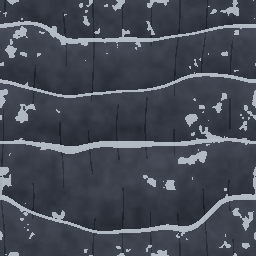
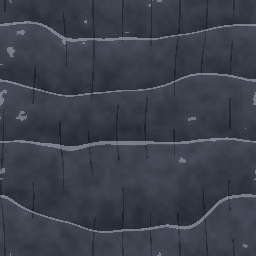
Soften the summit frost, name the waiting climb, and update the docs.
The waiting-climb banner and the title screen's continue button named the
Barranco Wall whatever climb was paused; they now use the paused climb's
own title. The docs describe the camp gates, the three climbs, and the
new art, and the testing checklist walks through all three.

Claude-Session: https://claude.ai/code/session_012oiSSfW9xutsnQ4PA8cAQG

diff --git a/src/app/climb.tsx b/src/app/climb.tsx
@@ -16,6 +16,7 @@ import type { PartyId } from '@/components/world/scene';
 import { checkpointName, currentKilimanjaroEvent } from '@/expeditions/kilimanjaro';
 import { kilimanjaroHybrid } from '@/expeditions/kilimanjaro/challenges';
 import { membersOf, routineActions, routineEffect, tendEffect, type RoutineId } from '@/expeditions/kilimanjaro/party';
+import { SCENES } from '@/features/climbing/scenes';
 import { challengeFor } from '@/game/hybrid/coordinator';
 import { gameStore, useGameSession } from '@/game/session';
 import type { Effect, ExpeditionState, StatKey } from '@/game/types';
@@ -175,7 +176,7 @@ export default function ClimbScreen() {
         {pending ? (
           <View style={[styles.pending, { paddingBottom: insets.bottom + 14 }]}>
             <Text style={styles.pendingKicker}>Playable climb · in progress</Text>
-            <Text style={styles.pendingTitle}>The Barranco Wall is waiting</Text>
+            <Text style={styles.pendingTitle}>{SCENES[pending.challengeId].copy.title} is waiting</Text>
             <Text style={styles.pendingBody}>
               You chose to climb it. Nothing has been spent yet: the expedition moves on when the climb ends, once.
             </Text>
@@ -191,7 +192,7 @@ export default function ClimbScreen() {
               onPress={() => gameStore.abandon()}
               style={({ pressed }) => [styles.pendingBack, pressed && styles.pendingPressed]}
             >
-              <Text style={styles.pendingBackText}>Back off and stay at Barranco</Text>
+              <Text style={styles.pendingBackText}>{SCENES[pending.challengeId].copy.backOff}</Text>
             </Pressable>
           </View>
         ) : member ? (

diff --git a/src/app/index.tsx b/src/app/index.tsx
@@ -16,6 +16,7 @@ import { useSafeAreaInsets } from 'react-native-safe-area-context';
 import { ExpeditionScene } from '@/components/world/ExpeditionScene';
 import { Screen } from '@/components/ui/Screen';
 import { KILI_DISCLAIMER, KILI_PROGRESS, checkpointName } from '@/expeditions/kilimanjaro';
+import { SCENES } from '@/features/climbing/scenes';
 import { gameStore, useGameSession } from '@/game/session';
 import { body, font, line, muted, paper, spruce, spruceInk } from '@/theme';
 import { formatElapsed, formatSeed, parseSeed } from '@/utils/number';
@@ -88,7 +89,7 @@ export default function TitleScreen() {
               style={({ pressed }) => [styles.go, styles.resume, pressed && styles.pressed]}
             >
               <Text style={styles.goText}>
-                {saved.pending ? 'Return to the Barranco Wall' : 'Continue the expedition'}
+                {saved.pending ? `Return to ${SCENES[saved.pending.challengeId].copy.title}` : 'Continue the expedition'}
               </Text>
               <Text style={styles.resumeDetail}>
                 {checkpointName(saved.state.checkpoint)} · {formatElapsed(saved.state.elapsedHours)} · {formatSeed(saved.state.seed)}

diff --git a/tools/art/scenery.py b/tools/art/scenery.py
@@ -160,8 +160,8 @@ def cliff(size=256, tone="barranco") -> Image.Image:
     rgb = mix(hex_rgb(dark), hex_rgb(light), np.clip(v, 0, 1))
     if frost:
         # Rime on the tops of each flow and scattered in the grain.
-        rime = (flow < 0.06) | ((grain > 0.66) & (blotch > 0.5))
-        rgb = np.where(rime[..., None], mix(rgb, hex_rgb(frost), 0.7), rgb)
+        rime = (flow < 0.035) | ((grain > 0.74) & (blotch > 0.62))
+        rgb = np.where(rime[..., None], mix(rgb, hex_rgb(frost), 0.32), rgb)
     return Image.fromarray(np.dstack([rgb, np.full((size, size), 255)]).astype(np.uint8), "RGBA")
 
 

diff --git a/docs/hybrid-architecture.md b/docs/hybrid-architecture.md
@@ -57,8 +57,7 @@ Three small engine changes support this:
 - A new move, `wait`, keeps the party where it is **without** the camp-rest
   benefit that `hold` gives above 3000 m. Failed and abandoned challenges use
   it, so walking away from a climb can never be a disguised rest day.
-- `Choice.id` is an optional stable id. Challenges are registered by card id and
-  choice id, so editing a choice's wording cannot break or redirect a challenge.
+- Challenges guard **camps**, not cards. See *Camp gates* below.
 
 ## Playable choice flow
 
@@ -79,10 +78,8 @@ router.back() to climb.tsx (field note shows the change)
 
 ### Contracts (`src/game/hybrid/types.ts`)
 
-- `ChallengeDefinition`: which card (`eventId`) and which choice
-  (`choiceId`, the choice's stable id, so neither reordering nor rewording
-  choices can launch the wrong thing) open the challenge, and a `modifier(outcome, baseEffect, state)`
-  function returning an `OutcomeModifier`.
+- `ChallengeDefinition`: the camp it guards (`gate`) and a
+  `modifier(outcome, baseEffect, state)` function returning an `OutcomeModifier`.
 - `PendingChallenge`: `attemptId`, `eventId`, `choiceIndex`, `choiceLabel`,
   `historyLength`, and a deterministic `seed` for the simulation.
 - `ChallengeOutcome`: `result` (`complete | retreat | fail`), `staminaLeft`,
@@ -91,6 +88,29 @@ router.back() to climb.tsx (field note shows the change)
   `move: 'wait'` (a challenge can take height away, never add it, and never
   turns into a rest),
   `keepBaseScores`, and its own score notes.
+
+### Camp gates
+
+Kilimanjaro has three played climbs, each guarding a camp:
+
+| Camp | Climb | Level |
+| --- | --- | --- |
+| Shira 2 (`camp1`) | the Lava Tower | `levels/lavaTower.ts` |
+| Barranco (`camp2`) | the Barranco Wall | `levels/barranco.ts` |
+| Barafu (`camp4`) | the summit night | `levels/summitNight.ts` |
+
+`challengeFor(game, state, card, index)` launches the camp's climb for any
+choice whose effect would move the party up (`up` or `summit`) out of a gated
+camp, on any card: the named event cards and the generated route card alike.
+Holding, camp beats, and turning around are never gated, and nothing is gated
+once the party is retreating. So the summit can only be reached by playing all
+three climbs, and a backed-off climb is tried again through the ordinary
+"move on" card.
+
+All three share one outcome policy (`climb()` in
+`src/expeditions/kilimanjaro/challenges.ts`): a retreat or failure `wait`s at
+the camp, refunds half the card's energy, takes back any acclimatization and
+team gain the height would have given, and costs the rest of the day.
 
 ### Invariants
 
@@ -103,6 +123,9 @@ router.back() to climb.tsx (field note shows the change)
 | A challenge cannot add height or large rewards | `boundModifier`: stats −12…+6, hours 0…12, scores −8…+8, notes must carry a mark | `the modifier cannot exceed its limits` |
 | Score notes cannot be earned twice | engine `marks`, and every challenge note has a mark | engine behaviour, unchanged |
 | Backing off is never better than the equivalent rest choice | Barranco modifier tuning | `backing off is never better than resting…` (5 seeds) |
+| Turning back from any climb leaves the party no better off and costs at least 12 h | shared `climb()` policy | `turning back from any climb never leaves the party better off…` |
+| Uhuru is only reached by playing all three climbs | camp gates | `Uhuru is only reached by playing all three climbs` (3 seeds) |
+| A backed-off climb comes back through the ordinary route card | camp gates | `after backing off, the plain way on launches the same climb again` |
 | Camp beats are blocked while a challenge is pending | `coordinator.play` | `camp beats are blocked…` |
 
 The attempt id is `expeditionId:seed:eventId:historyLength`. It is stable for
@@ -214,12 +237,12 @@ npx expo start --dev-client
 
 ## Adding a challenge
 
-1. Author a level in `src/features/climbing/levels/` (tile map + backdrop).
-2. Give the launching choice an `id` in the event data, and add a
-   `ChallengeDefinition` in the expedition's `challenges.ts` naming the card id
-   and that choice id, with a modifier that respects the limits above.
-3. Add it to the expedition's `challenges` list. The coordinator, save, and
-   expedition screen pick it up. `challenge.tsx` currently mounts the Barranco
-   level directly; a second challenge needs a level lookup by `challengeId`.
-4. Write the balance test: the played outcome must not beat the equivalent
-   unplayed choice on retreat or failure.
+1. Author a level in `src/features/climbing/levels/` (tile map + backdrop) and a
+   scripted playthrough test that finishes it.
+2. Add a `ClimbScene` to `src/features/climbing/scenes.ts`: level, cold
+   factor, theme (scenery, tint, night), camp, teammate, and wording.
+3. Add a `climb({ ... gate })` to the expedition's `challenges.ts` and put it in
+   the `challenges` list. The coordinator, save, expedition screen, and
+   challenge screen pick it up.
+4. The shared turn-back test covers the new climb automatically once a careful
+   run reaches its camp.

diff --git a/docs/asset-manifest.md b/docs/asset-manifest.md
@@ -14,11 +14,13 @@ re-run the script to change it. **Placeholder**: stand-in art, to be replaced.
 
 | Asset | Scene | Source | Size | Frames / timing | License | Status |
 | --- | --- | --- | --- | --- | --- | --- |
-| `assets/hd2d/characters/{you,marco,lena,jun}.png` | Barranco Wall | Generated by `tools/art/characters.py` (this repo) | 192 × 128, 24 × 32 frames, 8 columns | 27 frames; clips in `sprites.ts` | Project-owned | **Generated**, used. Shaded side-view sprites with a soft outline |
-| `assets/hd2d/terrain/barranco-tiles.png` | Barranco Wall | Generated by `tools/art/tiles.py` | 128 × 48, 16 px tiles | 23 tiles: basalt, climbable face, scree, lips, edges, shade, cairn, rest stone, marker post | Project-owned | **Generated**, used. Drawn with one Skia `Atlas` call |
+| `assets/hd2d/characters/{you,marco,lena,jun}.png` | Barranco Wall | Generated by `tools/art/characters.py` (this repo) | 256 × 160, 32 × 40 frames, 8 columns | 27 frames; clips in `sprites.ts` | Project-owned | **Generated**, used. HD-2D proportions, rim light, headlamps, soft outline |
+| `assets/hd2d/terrain/barranco-tiles.png` | Barranco Wall | Generated by `tools/art/tiles.py` | 128 × 64, 16 px tiles | 25 tiles (incl. two snow lips): basalt, climbable face, scree, lips, edges, shade, cairn, rest stone, marker post | Project-owned | **Generated**, used. Drawn with one Skia `Atlas` call |
 | `assets/hd2d/scenery/barranco-kibo.png` | Barranco Wall, layer 2 | Generated by `tools/art/scenery.py` | 1400 × 560 | – | Project-owned | **Generated**, used. Kibo's dome and southern ice cliffs, hazy |
 | `assets/hd2d/scenery/barranco-valley.png` | Barranco Wall, layer 4 | Same script | 1400 × 520 | – | Project-owned | **Generated**, used. Valley floor with giant groundsels at three depths |
 | `assets/hd2d/scenery/barranco-cliff.png` | Barranco Wall, layer 5 | Same script | 256 × 256, tiles seamlessly | – | Project-owned | **Generated**, used. Layered lava flows with columnar joints |
+| `assets/hd2d/scenery/plateau.png`, `lava-cliff.png`, `lava-foreground.png` | Lava Tower | `tools/art/scenery.py` | 1400 × 520 / 256 × 256 / 1400 × 420 | – | Project-owned | **Generated**, used. Shira heath, red lava flows, rocks |
+| `assets/hd2d/scenery/summit-sea.png`, `summit-cliff.png`, `summit-foreground.png` | Summit night | `tools/art/scenery.py` | 1400 × 560 / 256 × 256 / 1400 × 420 | – | Project-owned | **Generated**, used. Mawenzi over a cloud sea, frosted rock, icy rocks |
 | `assets/hd2d/scenery/barranco-foreground.png` | Barranco Wall, layer 8 | Same script | 1400 × 420 | – | Project-owned | **Generated**, used. Dark groundsel and rock silhouettes, drawn blurred |
 | `assets/world/pixel-tent.png` | Barranco Wall, camp | Unrecorded | 96 × 60 | – | Unrecorded | Used (reused) |
 | Mist, particles, gust streaks, vignette | Barranco Wall | Procedural | – | – | Project-owned | Used |
@@ -45,7 +47,7 @@ The generated art covers every layer. What would lift it further:
 
 | Asset | Spec | Priority |
 | --- | --- | --- |
-| Hand-finished character sheets | Paint over the generated 24 × 32 frames in Aseprite: faces, folds, gloves; add run, carry and a two-person help-up with Marco | High |
+| Hand-finished character sheets | Paint over the generated 32 × 40 frames in Aseprite: faces, folds, gloves; add run, carry and a two-person help-up with Marco | High |
 | Rock tile variants | Corner and overhang-underside tiles, so ledge ends round off instead of stopping square | Medium |
 | Kibo detail | Rock structure under the ice cliffs and a lit summit rim | Medium |
 | Scramble boulders in camp | Proper boulder sprites for the two starting scrambles, which are now face tiles | Medium |

diff --git a/docs/testing.md b/docs/testing.md
@@ -16,6 +16,7 @@ npx expo-doctor     # needs network for 2 of its 21 checks
 | `src/game/hybrid/__tests__/coordinator-test.ts` | launching, resolving once, duplicates, stale and malformed outcomes, retreat and fail, modifier bounds, balance against resting, scoring after a played wall |
 | `src/game/save/__tests__/save-test.ts` | save round trip, corrupt, newer, and invalid files, interrupted climb restored and resolved once across three "app launches", failed writes |
 | `src/features/climbing/__tests__/sim-test.ts` | level parsing, collision, climbing limits, falls, stamina drain and recovery, three-slip failure, wind timing, held help (taps do nothing), regroup, retreat, determinism, and a **scripted full ascent** of the Barranco level |
+| `src/features/climbing/__tests__/levels-test.ts` | scripted full ascents of the Lava Tower and the summit night (with Jun), and the cold slowing recovery |
 | `src/features/climbing/__tests__/presentation-test.ts` | sprite clip timing, camera follow and bounds, reduced-motion shake, parallax ordering |
 | `src/features/climbing/__tests__/runtime-test.ts` | 60 Hz simulation independent of display rate, stall handling, immutable frames, low-power publishing, hints |
 
@@ -35,15 +36,15 @@ npx eas-cli@latest build --profile development --platform android   # or ios
 npx expo start --dev-client
 ```
 
-### Manual checklist for the Barranco slice
+### Manual checklist for the three climbs
 
-1. Start a new expedition and play to Barranco Camp: *Walk the forest and set
+1. Start a new expedition and play to Shira 2: *Walk the forest and set
    camp*, *Sleep under the trees*, *Break camp and keep a patient pace*,
    *Stake the tents and sleep*, *Cross the plateau and pitch at Shira 2*,
-   *Sleep before the tower*, *Tag the tower, then sleep low*,
-   *Sleep and leave the wall for morning*.
-2. The wall card shows **Playable climb** on *Climb the wall and camp at
-   Karanga*. Choose it.
+   *Sleep before the tower*. Both ways up on the tower card show **Playable
+   climb**. Choose *Tag the tower, then sleep low* and climb the Lava Tower.
+2. At Barranco: *Sleep and leave the wall for morning*, then *Climb the wall
+   and camp at Karanga* (marked **Playable climb**).
 3. Briefing: energy and stamina shown. Start.
 4. Walk, scramble the two boulders, climb both faces, cross the exposed step
    only between gusts, help Marco, climb the gully, reach the marker.
@@ -60,6 +61,12 @@ npx expo start --dev-client
 9. Android: hardware back pauses instead of leaving.
 10. With *Show frame rate* on, note fps on the exposed step (the heaviest
     scene: gust streaks plus mist) and on the high ledge.
+11. Carry on to Barafu: *Lie down in the valley*, *Take the extra day*, *Break
+    camp for Barafu*, *Lie down on the ridge*, *Rest the day*, then *Keep the
+    pace through the dark*: the summit night. Check the headlamp, Jun on the
+    fourth switchback, and the sky lightening toward Stella Point.
+12. Back off one climb and confirm the next morning's *Move on* card launches
+    the same climb again.
 
 ## Web (development only)
 

diff --git a/docs/development-roadmap.md b/docs/development-roadmap.md
@@ -39,9 +39,9 @@ covered by automated tests. Nothing has been run on a physical device yet.
 | 2. Hybrid coordinator | **Done** | Pending challenges, deterministic attempt ids, registry by card and choice label, bounded reconciliation, exactly-once resolution, versioned SQLite save with migrations table, interrupted-attempt restore |
 | 3. Graybox climbing | **Done** | 60 Hz deterministic sim, tile collision, scrambling, stamina, wind, checkpoints, teammate, complete, retreat, and fail; Barranco level with a scripted full ascent in tests; touch pad |
 | 4. HD-2D graphics | **Partial** | Skia scene with the full 10-layer stack, parallax, depth blur, mist, particles, gust streaks, grading, sprite-sheet animation controller with 11 states. Art is generated by `tools/art/` scripts (tileset, four character sheets, Kibo, groundsel valley, lava cliff, foreground); a first pass, not hand-finished |
-| 5. Hybrid integration | **Partial** | Camp → wall → camp works and saves. Team interaction is Marco only; Lena and Jun do not appear in the climb |
+| 5. Hybrid integration | **Done** | Three gated climbs (Lava Tower, Barranco Wall, summit night); camp → climb → camp works and saves; Marco and Jun each need help on a climb; the rest of the party waits at each camp |
 | 6. Mobile quality | **Not started** | Haptics, pause on background, Android back, low-power and reduced-motion settings, and an fps meter exist; no device profiling yet |
-| 7. More playable content | **Not started** | |
+| 7. More playable content | **Partial** | The summit night is playable. Forest, plateau traversal and descent are still card-only |
 
 ## Next priorities, in order
 

diff --git a/docs/gameplay-spec.md b/docs/gameplay-spec.md
@@ -23,7 +23,24 @@ presented as accurate.
 4. **Return**. The outcome lands on the expedition once: the card's own effect,
    shaded by how the climb went. Back at camp, the field note says what changed.
 
-## Barranco Wall (first vertical slice)
+## Three climbs to the summit
+
+The expedition cannot be summited by cards alone. Three camps are gated: every
+way up out of them is a played climb. The cards still decide *how* (tag the
+tower or skip it, start the summit on the night you arrive or after the rest
+day), and the card's effects still apply; the climb decides whether the party
+gets there today.
+
+| Camp | Climb | What makes it hard |
+| --- | --- | --- |
+| Shira 2 | **The Lava Tower** | loose scree benches and a long scree gully that eat stamina; plateau wind on a ledge under an overhang; a chimney to the top. No teammate. Stamina recovers at 90 %. |
+| Barranco | **The Barranco Wall** | faces, an exposed step in the wind, Marco stuck on the high ledge, a loose gully. |
+| Barafu | **Summit night** | five frozen switchbacks by headlamp; the cold halves stamina recovery (55 %); Jun's hands have gone numb; the crater rim is open to the wind; Stella Point at first light. |
+
+Back off or fail and the party stays at that camp, a day poorer. The next
+morning's route card offers the way on again, and that launches the same climb.
+
+## Barranco Wall
 
 Card `kili-wall`, choice *Climb the wall and camp at Karanga*. The other two
 choices (*Rest beneath the wall*, *Turn around in the valley*) still resolve

diff --git a/docs/hd2d-art-direction.md b/docs/hd2d-art-direction.md
@@ -52,8 +52,9 @@ Each mountain zone gets its own palette when it gets a playable scene
 - Party identities from the existing front-facing sprites: **You** olive
   jacket, **Marco** rust-red, **Lena** forest green, **Jun** cobalt. White
   beanie and brown boots are shared.
-- Side-view gameplay sprites: **24 × 32 px frames**, the figure about 28 px tall,
-  feet on the bottom row, centred at x = 12. Three-tone shading lit from the
+- Side-view gameplay sprites: **32 × 40 px frames**, the figure about 30 px tall
+  with HD-2D proportions (the head about a third of it), feet on the bottom row,
+  centred at x = 16. Eyes with a catch-light, brows, a headlamp on every beanie. Three-tone shading lit from the
   upper left, and a soft selective outline (a darkened copy of the neighbouring
   colour rather than flat black).
 - Rendered at the same pixel scale as the 16 px tiles (`tile / 16`; tile is a
